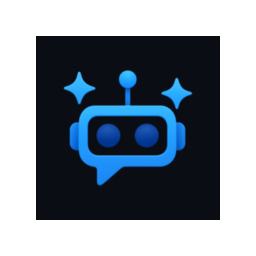
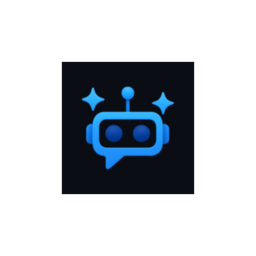
Refactor chat message loading and enhance MAM query options

diff --git a/app/xmpp-chat/[jid].tsx b/app/xmpp-chat/[jid].tsx
@@ -249,42 +249,6 @@ export default function XmppChatScreen() {
         behavior={Platform.OS === 'ios' ? 'padding' : undefined}
         keyboardVerticalOffset={90}
       >
-        <FlatList
-          ref={flatListRef}
-          inverted
-          data={inverted}
-          keyExtractor={(item, index) => `${item.id}-${index}`}
-          renderItem={renderMessage}
-          contentContainerStyle={styles.listContent}
-          extraData={msgCount}
-          // Inverted: the "end" of the list is the TOP of the screen, i.e. the
-          // oldest message — so reaching it is what pulls in more history.
-          onEndReached={handleLoadOlder}
-          onEndReachedThreshold={0.3}
-          ListFooterComponent={
-            msgCount === 0 ? null : (
-              <View style={styles.historyHeader}>
-                {loadingOlder || syncing ? (
-                  <ActivityIndicator size="small" color={Colors.primary} />
-                ) : exhausted ? (
-                  <Text style={styles.historyHeaderText}>Inicio de la conversación</Text>
-                ) : (
-                  <TouchableOpacity onPress={handleLoadOlder}>
-                    <Text style={styles.loadMamText}>Cargar mensajes anteriores</Text>
-                  </TouchableOpacity>
-                )}
-              </View>
-            )
-          }
-          ListEmptyComponent={
-            <View style={styles.empty}>
-              <Ionicons name="chatbubbles" size={48} color={Colors.textDim} />
-              <Text style={styles.emptyText}>No hay mensajes aún.</Text>
-              <Text style={styles.emptySubtext}>Envía un mensaje para empezar.</Text>
-            </View>
-          }
-        />
-
         <View style={styles.agentToolbar}>
           <View style={styles.statusStrip}>
             <View style={styles.statusMain}>
@@ -393,6 +357,42 @@ export default function XmppChatScreen() {
           )}
         </View>
 
+        <FlatList
+          ref={flatListRef}
+          inverted
+          data={inverted}
+          keyExtractor={(item, index) => `${item.id}-${index}`}
+          renderItem={renderMessage}
+          contentContainerStyle={styles.listContent}
+          extraData={msgCount}
+          // Inverted: the "end" of the list is the TOP of the screen, i.e. the
+          // oldest message — so reaching it is what pulls in more history.
+          onEndReached={handleLoadOlder}
+          onEndReachedThreshold={0.3}
+          ListFooterComponent={
+            msgCount === 0 ? null : (
+              <View style={styles.historyHeader}>
+                {loadingOlder || syncing ? (
+                  <ActivityIndicator size="small" color={Colors.primary} />
+                ) : exhausted ? (
+                  <Text style={styles.historyHeaderText}>Inicio de la conversación</Text>
+                ) : (
+                  <TouchableOpacity onPress={handleLoadOlder}>
+                    <Text style={styles.loadMamText}>Cargar mensajes anteriores</Text>
+                  </TouchableOpacity>
+                )}
+              </View>
+            )
+          }
+          ListEmptyComponent={
+            <View style={styles.empty}>
+              <Ionicons name="chatbubbles" size={48} color={Colors.textDim} />
+              <Text style={styles.emptyText}>No hay mensajes aún.</Text>
+              <Text style={styles.emptySubtext}>Envía un mensaje para empezar.</Text>
+            </View>
+          }
+        />
+
         {state !== 'online' && (
           <View style={styles.disconnectedBar}>
             <Text style={styles.disconnectedText}>Desconectado — reconectando...</Text>
@@ -449,10 +449,11 @@ const styles = StyleSheet.create({
   timestampMine: { color: 'rgba(255,255,255,0.7)' },
   agentToolbar: {
     backgroundColor: Colors.surface,
-    borderTopWidth: 1,
-    borderTopColor: Colors.surfaceBorder,
+    borderBottomWidth: 1,
+    borderBottomColor: Colors.surfaceBorder,
     paddingHorizontal: 8,
     paddingTop: 8,
+    paddingBottom: 8,
     gap: 8,
   },
   statusStrip: {
@@ -526,7 +527,6 @@ const styles = StyleSheet.create({
     flexDirection: 'row',
     alignItems: 'center',
     gap: 8,
-    paddingBottom: 8,
     flexWrap: 'wrap',
   },
   bypassButton: {

diff --git a/src/xmpp/XmppService.ts b/src/xmpp/XmppService.ts
@@ -353,7 +353,7 @@ interface MamPage {
  */
 async function runMamQuery(
   contactJid: string,
-  opts: { start?: string; end?: string; after?: string } = {},
+  opts: { start?: string; end?: string; after?: string; latest?: boolean } = {},
 ): Promise<MamPage> {
   if (!xmppClient || !accountConfig) return { messages: [], complete: true, last: null };
 
@@ -372,8 +372,9 @@ async function runMamQuery(
 
   const rsm: Element[] = [xml('max', {}, String(MAM_PAGE_SIZE))];
   if (opts.after) rsm.push(xml('after', {}, opts.after));
-  // Paging backwards (scroll-to-load-older) wants the newest page of the range.
-  if (opts.end && !opts.after) rsm.push(xml('before', {}));
+  // Paging backwards (scroll-to-load-older or cold cache bootstrap) wants the
+  // newest page of the range. Without this, MAM returns the oldest page first.
+  if ((opts.end || opts.latest) && !opts.after) rsm.push(xml('before', {}));
 
   try {
     const reply = await xmppClient.iqCaller.request(
@@ -805,9 +806,12 @@ export const XmppService = {
     // Match GTK: re-fetch before our newest cached message with a generous
     // overlap so live-cache rows and action metadata get reconciled with MAM.
     const latest = await XmppHistory.getLatestTimestamp(contactJid);
-    const start = latest
-      ? new Date(new Date(latest).getTime() - OVERLAP_MS).toISOString()
-      : undefined;
+    if (!latest) {
+      const result = await runMamQuery(contactJid, { latest: true });
+      return persistAndDedupe(contactJid, result.messages);
+    }
+
+    const start = new Date(new Date(latest).getTime() - OVERLAP_MS).toISOString();
 
     const collected: XmppMessage[] = [];
     let after: string | undefined;